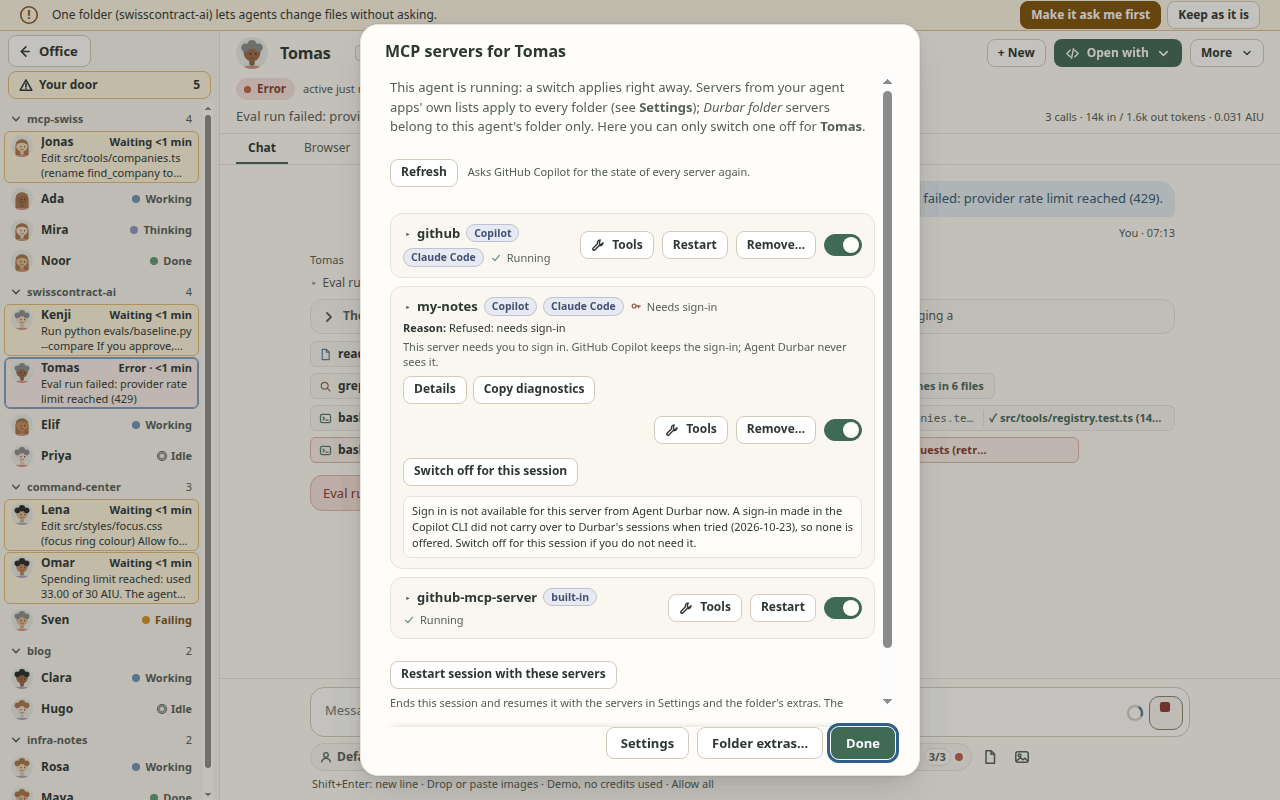
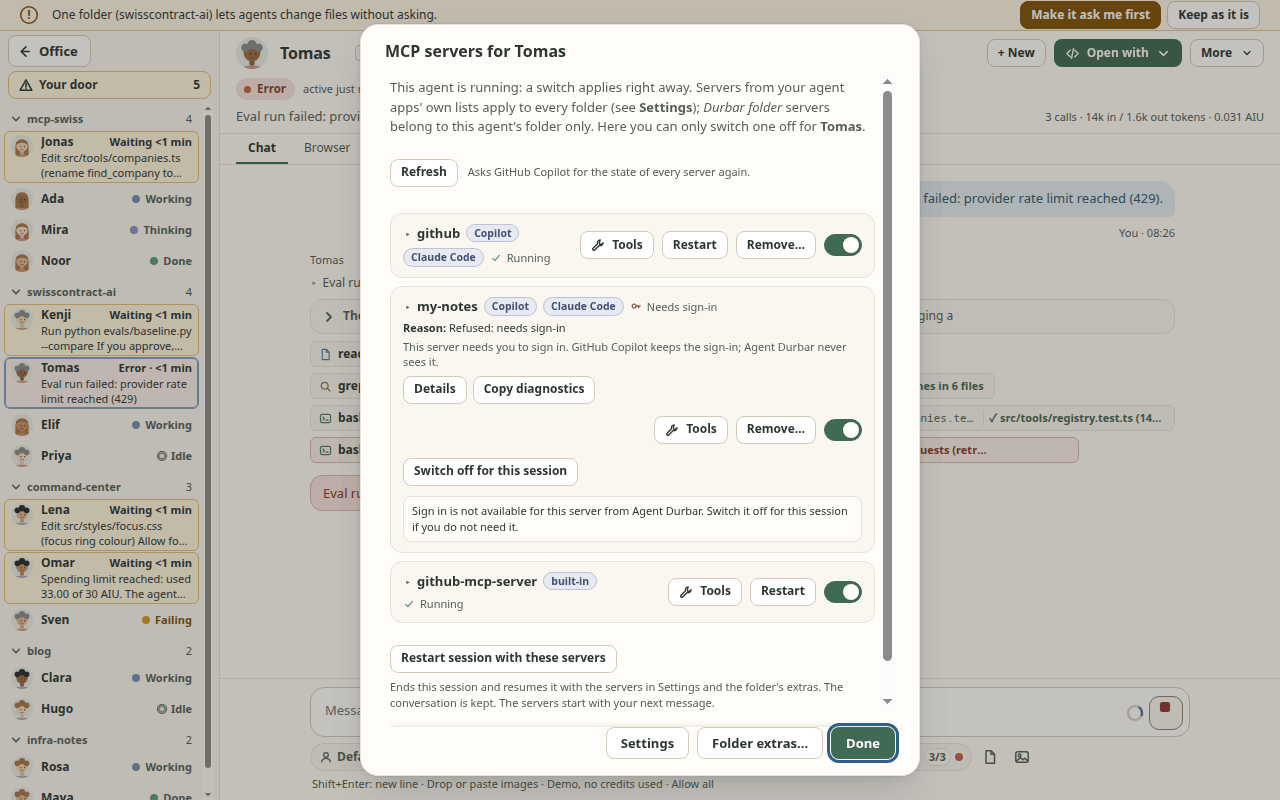
Copilot not-available note: the owner's shorter wording, no CLI mention (spec 058 FR-246, #1730)

Changed region(s): [[0.3125, 0.8125, 0.6562, 0.9062], [0.3125, 0.625, 0.6562, 0.7812], [0.5312, 0.7188, 0.6875, 0.7812]]

diff --git a/scripts/test-mcp-session.ts b/scripts/test-mcp-session.ts
@@ -71,7 +71,7 @@ async function main(): Promise<void> {
         };
         const claudeLike = await mk('If Sign in is not available, run `claude mcp login {name}` in a terminal.');
         assert.deepStrictEqual([claudeLike.signInHasCommand, /claude mcp login signed-out/.test(claudeLike.signInSteps ?? '')], [true, true], 'FR-246: a steps text with a command sets signInHasCommand (the terminal-steps button depends on it)');
-        const copilotLike = await mk('Sign in is not available for this server from Agent Durbar now. Switch off for this session if you do not need it.');
+        const copilotLike = await mk('Sign in is not available for this server from Agent Durbar. Switch it off for this session if you do not need it.');
         assert.strictEqual('signInHasCommand' in copilotLike, false, 'FR-246: a command-less note leaves the flag unset');
         assert.ok(!!copilotLike.signInSteps, 'FR-246: the note itself is still sent');
       }
@@ -507,7 +507,7 @@ async function main(): Promise<void> {
       {
         const steps = ad.capabilities.mcpSignInSteps ?? '';
         assert.ok(steps.length > 0 && !/`|\/mcp auth|copilot login|run copilot/i.test(steps), 'FR-246: the Copilot row has no CLI command (a CLI sign-in did not carry over): ' + steps);
-        assert.match(steps, /did not carry over to Durbar's sessions/, 'FR-246: says so');
+        assert.strictEqual(steps, "Sign in is not available for this server from Agent Durbar. Switch it off for this session if you do not need it.", 'FR-246: the owner-chosen note (2026-11-14), no CLI mention');
       }
       const sid = await ad.start({ workspace: ws, quiet: true });
       const s = client.last;

diff --git a/src/renderer/sim.ts b/src/renderer/sim.ts
@@ -1548,7 +1548,7 @@ const planMcpSignInRefresh = (i: SignInPlanInput): SignInPlan => {
     const simMcpAuth = simQs?.get('simmcpauth') ?? '';
     /* the apps whose rows sign in in the simulator, with the texts their adapters send (src/adapters/copilot.ts, claude.ts) */
     const SIM_SIGN_IN: Record<string, { steps: (n: string) => string; note: string; restart: boolean; noCall: string }> = {
-      copilot: { steps: () => "Sign in is not available for this server from Agent Durbar now. A sign-in made in the Copilot CLI did not carry over to Durbar's sessions when tried (2026-10-23), so none is offered. Switch off for this session if you do not need it.", note: 'Checked once on a real account; other servers and systems not yet.', restart: false, noCall: 'This Copilot version cannot start a sign-in from Agent Durbar.' },
+      copilot: { steps: () => "Sign in is not available for this server from Agent Durbar. Switch it off for this session if you do not need it.", note: 'Checked once on a real account; other servers and systems not yet.', restart: false, noCall: 'This Copilot version cannot start a sign-in from Agent Durbar.' },
       claude: { steps: (n) => 'If Sign in is not available, run `claude mcp login ' + n + "` in a terminal and finish in your browser. This works only for a server in Claude Code's own settings. Then press Restart on this row.", note: 'Not checked on a real account yet.', restart: true, noCall: 'This Claude Code version cannot start a sign-in from Agent Durbar.' },
     };
     const simSignApp = (s: SimAgent) => SIM_SIGN_IN[s.info.adapterId ?? 'copilot'];

diff --git a/src/adapters/copilot.ts b/src/adapters/copilot.ts
@@ -308,7 +308,7 @@ export const COPILOT_CAPABILITIES: AdapterCapabilities = Object.freeze({
   mcpSignInReconnect: true, // spec 058 FR-207: the automatic reconnect calls rpc.mcp.restartServer only and re-reads `list` 1.5 s later (real: T176/T177, runtime 1.0.103)
   mcpSignInAgain: true, // spec 058 FR-164: oauth.login forceReauth ("clears any cached OAuth token for the server and runs a full new authorization", read: SDK 1.0.22-1.0.26 rpc.d.ts; not run on a real account)
   mcpSignIn: true, // spec 058 FR-064: rpc.mcp.oauth.login (@experimental; read: SDK 1.0.22-1.0.26 rpc.d.ts; real: worked once, macOS 2026-10-23, one server; the rest in T105)
-  mcpSignInSteps: "Sign in is not available for this server from Agent Durbar now. A sign-in made in the Copilot CLI did not carry over to Durbar's sessions when tried (2026-10-23), so none is offered. Switch off for this session if you do not need it.", // FR-068, FR-246: no CLI command (a CLI sign-in did not carry over)
+  mcpSignInSteps: "Sign in is not available for this server from Agent Durbar. Switch it off for this session if you do not need it.", // FR-068, FR-246: no CLI command (a CLI sign-in did not carry over)
   mcpSignInNote: 'Checked once on a real account; other servers and systems not yet.', // FR-074/FR-180: the row's honest note
   sessionStats: true, // spec 085 FR-012: rpc.usage.getMetrics (@experimental; read: SDK 1.0.24; not run on a real session)
   handoff: true, // spec 030 FR-034: rpc.history.summarizeForHandoff (cost unverified)

diff --git a/scripts/shots-058-mcp-signin.js b/scripts/shots-058-mcp-signin.js
@@ -209,7 +209,7 @@ module.exports = async (ctx) => {
     assert.ok(await js(`!!window.__row('my-notes').querySelector('.srv-steps')`), 'the note is open by default');
     {
       const st = await js(`window.__row('my-notes').querySelector('.srv-steps').textContent`);
-      assert.ok(/did not carry over to Durbar's sessions/.test(st) && /Switch off for this session/.test(st), 'FR-246: the honest note: ' + st);
+      assert.ok(/^Sign in is not available for this server from Agent Durbar\. Switch it off for this session if you do not need it\.$/.test(st.trim()) && !/CLI|copilot/i.test(st), 'FR-246: the owner-chosen note, no CLI mention: ' + st);
       assert.ok(!/\/mcp auth|copilot login|`copilot`|run copilot/i.test(st) && !(await js(`!!window.__row('my-notes').querySelector('.srv-steps code, button[data-copysteps]')`)), 'FR-246: no CLI command, no Copy: ' + st);
     }
     await check(w, 'manual');

diff --git a/docs/features.md b/docs/features.md
@@ -93,7 +93,7 @@ Where each feature works (Flat, Real office, worlds): [feature inventory](featur
   - **Sign-ins kept fresh** (on by default; *Settings > MCP servers > Refresh MCP sign-ins automatically*): before a chat's first message after an hour without a reply (a wake from sleep counts), Agent Durbar asks Copilot or Claude Code to reconnect that chat's remote MCP servers, so the app renews an expired sign-in with its own stored refresh token; before the first message of a running session whose servers already reported, only servers that read *Needs sign-in* are asked (a resumed or not yet started session has no report before its message, and Durbar starts no server early to get one). The message shows at once with one quiet line, *Reconnecting MCP sign-ins (2 servers)…*, and waits at most 5 seconds (after that it goes anyway and says which servers are still reconnecting); **Stop** during the wait sends nothing and puts the text back. A server that still needs a sign-in gets one line, *<name> needs you to sign in again.*, with **Sign in…** (the chat's MCP list; your browser opens only from there). One reconnect per server at a time across chats, at most one per server per hour, none while a turn runs, none of a local server, and a server that needed a sign-in is left alone until you sign in, press Restart or switch it. On macOS only servers that already read *Needs sign-in* are reconnected (keychain prompts, not yet checked on a Mac). Codex chats are not reconnected: Codex renews with its next session. In Copilot chats in Read-only and Ask first, whose MCP servers run in Copilot's own OS sandbox, a reconnect did not renew the sign-in (checked on Linux), so there Agent Durbar only tells you when a server needs you to sign in again. Simulator and unit tests only; the apps' reconnect behaviour was probed on Linux against a local test server ([spec 058](../specs/058-mcp-session-controls/spec.md) FR-204..FR-217; pictures: [the waiting line](screenshots/058-mcp-refresh-waiting-1440x900.png), [1280x800](screenshots/058-mcp-refresh-waiting-1280x800.png), [the sign-in line](screenshots/058-mcp-refresh-signin-1440x900.png), [1280x800](screenshots/058-mcp-refresh-signin-1280x800.png), [the Settings switch](screenshots/058-mcp-refresh-settings-1440x900.png), [1280x800](screenshots/058-mcp-refresh-settings-1280x800.png)). After a failed call to a remote server whose sign-in expired (or a report that it needs one after it was connected), a Copilot chat reconnects that server at once, in the background, also in the middle of a turn: a *Renewed 12:40* note on its row in the chat's MCP list, no timer. The call that failed still failed; when the reconnect worked, Agent Durbar sends the agent one short automatic message naming that server (when its name is a plain one) and asking it to retry the step, drawn as Agent Durbar's own automatic message, which is one extra message that uses AI credits (the chat shows it, then a line *Sent automatically…*; never at a spending limit, after Stop, or with the switch off; once per failure; your own message is never resent). Probed on a local test server only, not on a real Entra server. The check at launch and the 30-minute recheck of the spec come in a second part; **Before every message** a Copilot chat also checks, beside the send and without holding it, each remote sign-in server that reads *connected* (a tool-list request, no AI; once when the chat starts too; a server with a successful call or check in the last 5 minutes is skipped) and reconnects at once one that clearly answers *unauthorized* (an HTTP 401 and the like; any other error does nothing; each server at most every 5 minutes); silent while all is well, with *Reconnecting <name>…* only during such a reconnect and no note to the agent ([spec 058](../specs/058-mcp-session-controls/spec.md) FR-223..FR-228). The activity row for a renewal is written only with *Settings > Diagnostics* on. Local test server only; not checked on a real Entra server, macOS or Windows.
   - **Why a server failed**: a failed or needs-sign-in server says why in plain words (*Not installed (command not found)*, *Crashed on start*, *Timed out*, *Disconnected later*, *Refused the connection*, *Refused: needs sign-in*, *Refused: token not accepted* (a 403 from a server whose entry sends its own token in a credential header (such as `Authorization` or `X-API-Key`; a setting header like `X-MCP-Readonly` does not count) or a `${NAME}` variable, with no OAuth: no *Sign in again…*, and a variable Agent Durbar's environment does not have is named, never its value, and only when it looks like a variable name (`MY_API_KEY`, never a key pasted inside `${...}`); the hint is two short sentences, and the likely cause is this: an app opened from the Dock, Finder or a desktop menu does not read your terminal's profile, so a variable set only there is empty for Agent Durbar and for the agent app it starts; set it where Agent Durbar starts, then open the app again; [spec 058](../specs/058-mcp-session-controls/spec.md) FR-232), *Permission denied*, *Settings look wrong*, or *Failed (reason unknown)*: a reason is never guessed) and when Durbar saw it ("seen at 14:02"), in the chat's MCP dialog and in Settings. **Copy diagnostics** copies a masked summary for an issue report (server, state, reason, UTC time, transport, agent app and version, the masked error; home folders read `~`, OAuth codes and tokens are masked). The MCP chip under the message box shows a small red dot, and its name says "1 failed", when a server of that chat failed. The reasons come from what each agent app reports (Copilot's failure classification, Claude Code's skipped config entries, the error text); simulator and unit tests only, not checked against a real agent app's reports except Copilot's *command not found* ([spec 058](../specs/058-mcp-session-controls/spec.md) FR-090..FR-097, issue #603; [picture](screenshots/058-mcp-health-1440x900.png));
   - Copilot sessions keep an MCP server's sign-in (OAuth) in your system keychain (the SDK's "OS keychain": Credential Manager on Windows, Keychain on macOS; on Linux the desktop keyring, or, with no keyring, files under `~/.copilot/mcp-oauth-config/`), so one sign-in is shared by your Durbar sessions and survives the end of a session and a restart. The Copilot runtime keeps it; Durbar never reads it. Checked on 2026-10-21 with a demo OAuth server on GitHub's Windows and Linux runners (a new session in a new runtime connected with no new sign-in); not yet on a Mac or with a third-party server ([spec 058](../specs/058-mcp-session-controls/spec.md) FR-070);
-  - **Sign in to an MCP server from Durbar (Copilot):** a server that reads *Needs sign-in* in that dialog has **Sign in**: Durbar asks Copilot's own runtime to start its sign-in, then shows "Sign-in page on *host*" and opens your browser only when you click **Open sign-in page** (https pages only, never `localhost`, an IP address or a one-word host, with no user name, password or space in the address; an international host name is shown in its `xn--` form, with where the server came from and a plain line when the page is on a different site than the server; **Cancel** forgets it, and Durbar forgets it after 10 minutes, when the server connects, or when the session ends). Copilot runs the sign-in and keeps the result; Agent Durbar never sees a token, and the page address stays in memory (not in the activity log or the debug log). The row updates when Copilot reports the server connected. **Switch off for this session** is next to it. Durbar shows no Copilot CLI steps: a sign-in made in the Copilot CLI (`/mcp auth`) did not carry over to a Durbar session on the one Mac it was tried on (2026-10-23, spec 058 FR-074, FR-246), so where Sign in is not available the row says so plainly. Checked once on a real account (Copilot, macOS, 2026-10-23, one Microsoft-hosted server: it worked, the row was slow); the 5-second re-read, the host binding, the source line and the address rules came after and are checked in the simulator and tests only, and other servers, Windows and Linux are not checked ([spec 058](../specs/058-mcp-session-controls/spec.md) FR-064..FR-069, issue #364; real check T105 pending);
+  - **Sign in to an MCP server from Durbar (Copilot):** a server that reads *Needs sign-in* in that dialog has **Sign in**: Durbar asks Copilot's own runtime to start its sign-in, then shows "Sign-in page on *host*" and opens your browser only when you click **Open sign-in page** (https pages only, never `localhost`, an IP address or a one-word host, with no user name, password or space in the address; an international host name is shown in its `xn--` form, with where the server came from and a plain line when the page is on a different site than the server; **Cancel** forgets it, and Durbar forgets it after 10 minutes, when the server connects, or when the session ends). Copilot runs the sign-in and keeps the result; Agent Durbar never sees a token, and the page address stays in memory (not in the activity log or the debug log). The row updates when Copilot reports the server connected. **Switch off for this session** is next to it. Durbar shows no Copilot CLI steps: a sign-in made in the Copilot CLI (`/mcp auth`) did not carry over to a Durbar session on the one Mac it was tried on (2026-10-23, spec 058 FR-074, FR-246), so where Sign in is not available the row says only "Sign in is not available for this server from Agent Durbar. Switch it off for this session if you do not need it."; the app's own **Sign in** stays wherever it can start one. Checked once on a real account (Copilot, macOS, 2026-10-23, one Microsoft-hosted server: it worked, the row was slow); the 5-second re-read, the host binding, the source line and the address rules came after and are checked in the simulator and tests only, and other servers, Windows and Linux are not checked ([spec 058](../specs/058-mcp-session-controls/spec.md) FR-064..FR-069, issue #364; real check T105 pending);
   - **A Running server whose calls fail** says so: when its last tool call was refused for a missing sign-in or by your organization's access policy (for example Microsoft Entra Conditional Access, "the device must be managed"), its row reads *Running · last call needs sign-in* or *Running · last call blocked by your organization's access policy*, with a hint, in the chat's MCP dialog and in Settings; a later successful call clears it. Agent Durbar shows only that class, never the error text. It cannot fix a policy: ask your administrator. The dialog reads the agent app's server list again when it opens (at most once a minute, and only when every server is already running), and **Refresh** does it on demand at any time (Copilot and Claude Code; Codex cannot report its list again, and the dialog says so). Checked on the simulator only, not on a real account.
   - **Sign in for Claude Code servers:** a Claude Code row that reads *Needs sign-in* has the same **Sign in**, two-step open and **Cancel**: Durbar asks the running Claude Code to start its own sign-in for that one server (it runs discovery and its own `127.0.0.1` callback; Durbar never sees a code or token and sends no callback address), and keeps the page for the 5 minutes Claude Code waits, minus a margin. Durbar never runs `claude mcp login` itself. The row keeps **Restart**: after a sign-in finished elsewhere (a terminal, or the browser after **Cancel**) it makes the running session pick it up, and opening the dialog or coming back to the window within 5 minutes of an attempt reads the list once. *How to sign in from a terminal* says: run `claude mcp login <name>`, finish in your browser (this works only for a server in Claude Code's own settings), then press **Restart** on the row. A server in Claude Code's own list that has `oauth` settings (`clientId`, `callbackPort`, `authServerMetadataUrl`, `scopes`) gets those, and only those, in Durbar's copy (never a client secret). The "different site" line compares with the agent app's own copy of the server (an earlier build could compare with a Copilot server of the same name). The request Durbar uses (`mcp_authenticate`) is not in Claude Code's documentation and was read from version 2.1.304 only; on another version, or with no answer in 30 seconds, the terminal steps show. Not checked on a real account yet: simulator and test harnesses only ([spec 058](../specs/058-mcp-session-controls/spec.md) FR-175, FR-176, FR-180..FR-186; real check T106 pending; Codex rows follow in a later change);
   - when a server asks you for input (a small form, or a sign-in page), the chat shows it with **Submit / Decline / Cancel**; a page opens in your browser only after you click, and only if it is https (simulator and test harnesses only so far, not yet tried with a real server).

diff --git a/specs/058-mcp-session-controls/spec.md b/specs/058-mcp-session-controls/spec.md
@@ -395,7 +395,7 @@ All answered by the owner: option A for each (see *Clarifications*). The options
 
 **What is known (read in docs and spec, no run today):** FR-074 records the one real check (2026-10-23, the owner's Mac): `/mcp auth agent365-teams` in the CLI succeeded there, but Durbar's Copilot session still read "Needs sign-in". No run in the repo ever shows a CLI sign-in reaching a Durbar session, and FR-070 / T105 still list sharing with the CLI as unverified. Why it does not carry over is **not proven** (a separate token entry, another sign-in registration or a missing restart are all possible; the restart is not recorded).
 
-**FR-246.** The Copilot adapter's `mcpSignInSteps` (FR-068) has **no command and no CLI instruction**. Where Sign in is available the row shows no steps block and no *How to sign in from a terminal* button (steps without a command add nothing there). Where it is not (no capability, method missing, refused), the row shows one calm note: "Sign in is not available for this server from Agent Durbar now. A sign-in made in the Copilot CLI did not carry over to Durbar's sessions when tried (2026-10-23), so none is offered. Switch off for this session if you do not need it." A refused sign-in (`manual: true`, the app cannot start it or refuses the address) ends "Use the steps below." only when a steps block is shown (the row's `signInHasCommand` from `stepsHaveCommand` in `src/shared/mcp.ts`, or Sign in not offered); for a Copilot row it shows the refusal alone, with no sentence about steps below (review of #1731, Paco). The chat's "says it is signed in" message uses the same `stepsHaveCommand` test and, for an app with no terminal command, ends "switch the server off for this session" instead of "use the terminal steps below". Claude Code's and Codex's own steps (FR-181) are unchanged. The folder-extra line and the Agent apps' GitHub sign-in (`copilot login`, a different sign-in) are not touched. `[IMPLEMENTED]` 2026-11-14 (T231). `test:` `test:mcpsession`, `test:mcpsignin`; `sim:` `shots-058-mcp-signin` at 1440x900 and 1280x800 (no CLI command in the row, in either state). `[KNOWN GAP]` whether a CLI sign-in ever carries over (other Mac, Windows, Linux, a restart in between) is not checked; if a real run shows it does, this is reopened.
+**FR-246.** The Copilot adapter's `mcpSignInSteps` (FR-068) has **no command and no CLI instruction**. Where Sign in is available the row shows no steps block and no *How to sign in from a terminal* button (steps without a command add nothing there). Where it is not (no capability, method missing, refused), the row shows one calm note (wording chosen by the owner on 2026-11-14, 07:23 UTC, Telegram: "option 2", the shorter text with no mention of the CLI; "I just did not want to show /mcp commands which are for copilot cli"; the reason stays here, not in the UI: on 2026-10-23 a CLI sign-in did not reach a Durbar session, FR-074): "Sign in is not available for this server from Agent Durbar. Switch it off for this session if you do not need it." The app's own **Sign in** button stays wherever the app can start a sign-in (the driver asserts it on the Copilot row). A refused sign-in (`manual: true`, the app cannot start it or refuses the address) ends "Use the steps below." only when a steps block is shown (the row's `signInHasCommand` from `stepsHaveCommand` in `src/shared/mcp.ts`, or Sign in not offered); for a Copilot row it shows the refusal alone, with no sentence about steps below (review of #1731, Paco). The chat's "says it is signed in" message uses the same `stepsHaveCommand` test and, for an app with no terminal command, ends "switch the server off for this session" instead of "use the terminal steps below". Claude Code's and Codex's own steps (FR-181) are unchanged. The folder-extra line and the Agent apps' GitHub sign-in (`copilot login`, a different sign-in) are not touched. `[IMPLEMENTED]` 2026-11-14 (T231). `test:` `test:mcpsession`, `test:mcpsignin`; `sim:` `shots-058-mcp-signin` at 1440x900 and 1280x800 (no CLI command in the row, in either state). `[KNOWN GAP]` whether a CLI sign-in ever carries over (other Mac, Windows, Linux, a restart in between) is not checked; if a real run shows it does, this is reopened.
 
 ### 2026-11-12: a 403 from a server that sends a token header is not "needs sign-in" (issue #1621, FR-232)
 

diff --git a/changelog.d/058-1730-mcp-no-cli-steps.md b/changelog.d/058-1730-mcp-no-cli-steps.md
@@ -1,1 +1,1 @@
-- **A Copilot MCP server that needs a sign-in no longer shows Copilot CLI steps** (spec 058, issue #1730, owner report): a sign-in made in the Copilot CLI did not carry over to Durbar's sessions, so the row no longer tells you to run `copilot` and `/mcp auth`; use **Sign in** in the MCP dialog, or **Switch off for this session**. Checked on the simulator only.
+- **A Copilot MCP server that needs a sign-in no longer shows Copilot CLI steps** (spec 058, issue #1730, owner report): the row no longer tells you to run `copilot` and `/mcp auth`. **Sign in** stays in the MCP dialog wherever it can start one; where it cannot, the row says so and offers **Switch off for this session**. Checked on the simulator only.
